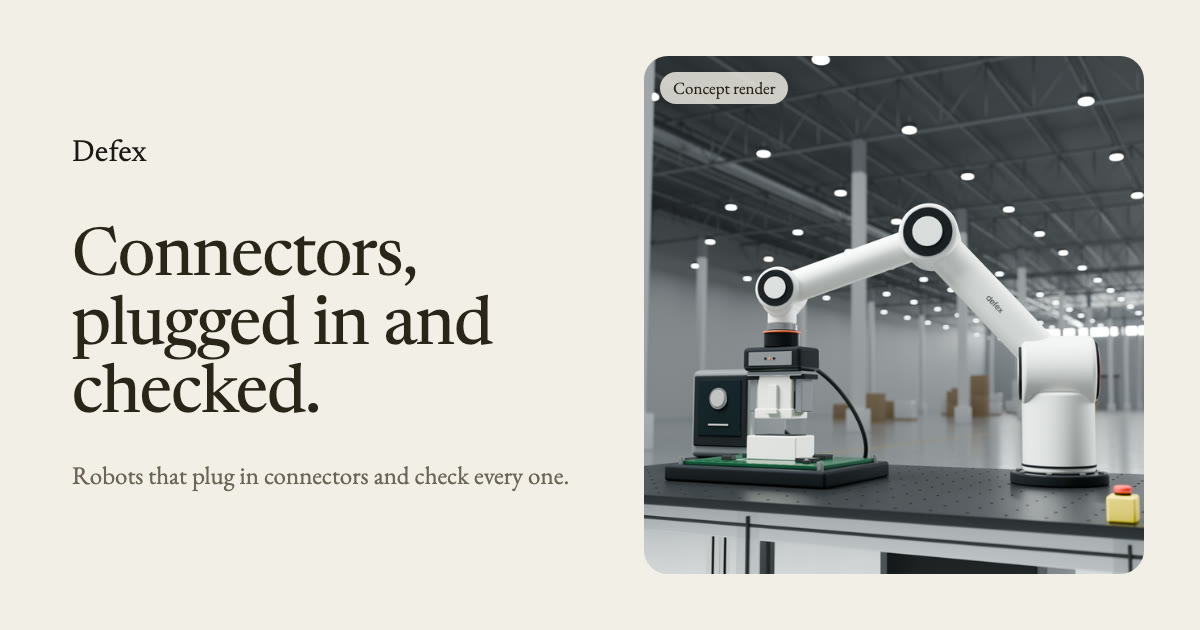
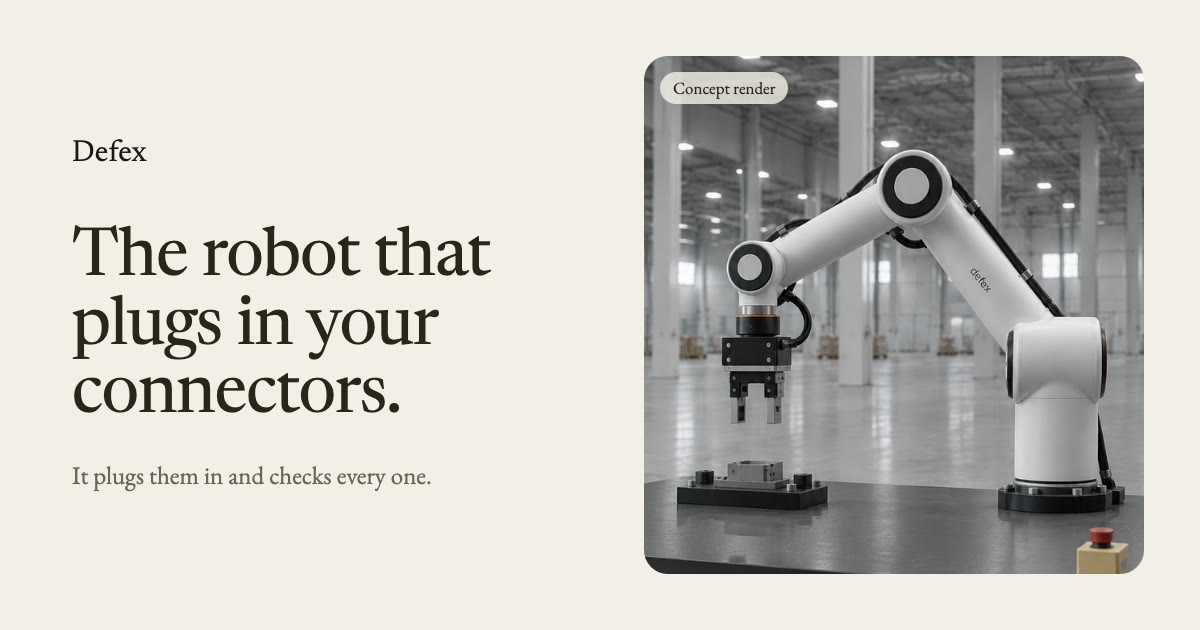
Home headline: "The robot that plugs in your connectors." (#108)
His pick. The share card carries the same line over his picture, with
"It plugs them in and checks every one." under it.

Changed region(s): [[0.5242, 0.0905, 0.9558, 0.9349], [0.0617, 0.3619, 0.4317, 0.6635], [0.0617, 0.7238, 0.4625, 0.7841]]

diff --git a/templates/landing/home.html b/templates/landing/home.html
@@ -30,7 +30,7 @@
                  2026-10-12: the connector cell, not the humanoid, the way Agility
                  and Skild frame their machines; then one still picture, no film). -->
             <div class="lede">
-                <h1 class="cut" id="hero-title"><span class="cut__face engraved">Connectors, plugged in <br>and <em>checked</em>.</span><span class="cut__mask" aria-hidden="true">Connectors, plugged in <br>and <em>checked</em>.</span></h1>
+                <h1 class="cut" id="hero-title"><span class="cut__face engraved">The robot that plugs <br>in your connectors.</span><span class="cut__mask" aria-hidden="true">The robot that plugs <br>in your connectors.</span></h1>
             </div>
             <!-- One still: the cell on its bench in a factory hall. His picture
                  (2026-10-12), wide for screens and a 4:5 crop of his portrait

diff --git a/landing/tests.py b/landing/tests.py
@@ -16,7 +16,8 @@ class SiteTests(SimpleTestCase):
         home = self.client.get("/")
         # the headline and the three steps must match the deck, not the
         # superseded vision-inspection positioning they replaced
-        self.assertContains(home, "Connectors, plugged in <br>and <em>checked</em>.")
+        self.assertContains(home, "The robot that plugs <br>in your connectors.")
+        self.assertNotContains(home, "self-teaching")
         # the case in the pitch's own words: what it does for a factory, as ruled rows
         for claim in ("The robot plugs it in.", "It checks every one.",
                       "Every test teaches it.", "A new part is not a new project."):

diff --git a/config/settings.py b/config/settings.py
@@ -174,7 +174,7 @@ WHITENOISE_MIMETYPES = {'.wasm': 'application/wasm', '.avif': 'image/avif'}
 # static/** through @vercel/static, so /static/ is answered at the edge and never
 # reaches Django. Production cache headers live in vercel.json. This hook still
 # runs under gunicorn and in the tests, and is what they assert against.
-DEFEX_ASSET_VERSION = os.getenv("DEFEX_ASSET_VERSION", "206")
+DEFEX_ASSET_VERSION = os.getenv("DEFEX_ASSET_VERSION", "207")
 
 # The hero film's stills (static/defex/frames, 15 MB for a desktop visitor)
 # carry their own version instead of the asset version, so a deploy that does
